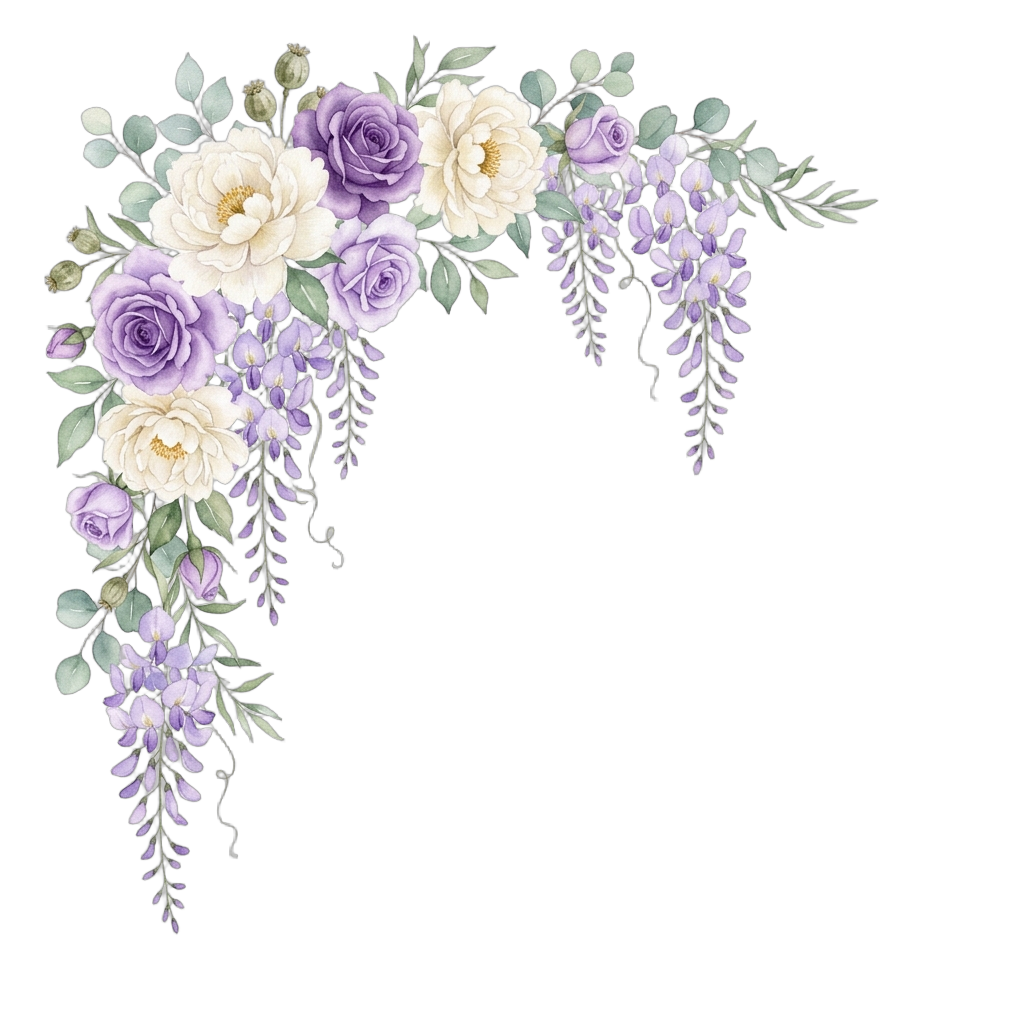
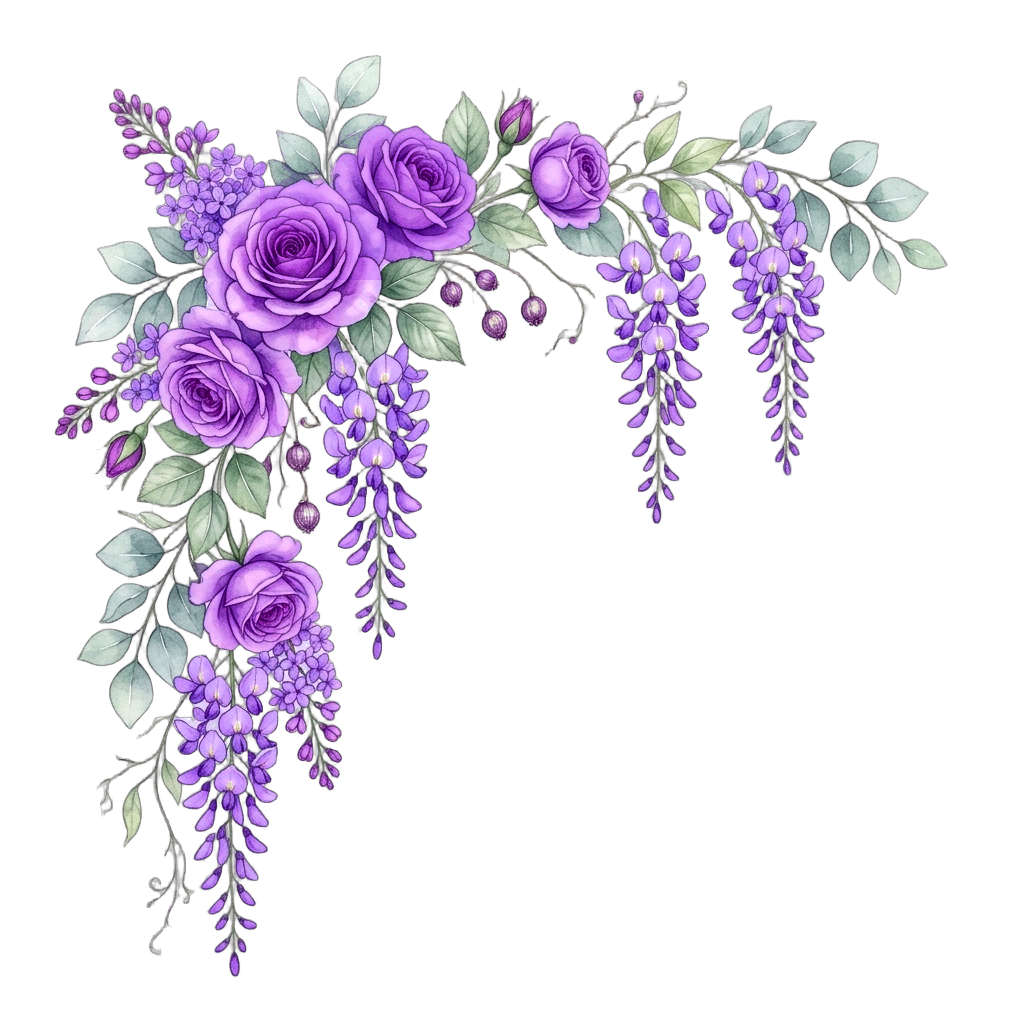
add new flower at the background

Changed region(s): [[0.0312, 0.0312, 0.9375, 0.9688], [0.125, 0.9062, 0.1562, 0.9375]]

diff --git a/src/views/CoverPage.css b/src/views/CoverPage.css
@@ -81,34 +81,72 @@
   z-index: 4;
 }
 
+.top-floral-bridge-bg {
+position: absolute;
+    top: -20px;
+    left: 50%;
+    transform: translateX(-50%);
+    width: 93%;
+    height: auto;
+    display: block;
+    z-index: 1;
+    pointer-events: none;
+    filter: drop-shadow(0 4px 12px rgba(90, 40, 110, 0.1));
+}
+
+.top-flower-left-bg {
+  position: absolute;
+  top: clamp(-16px, -4.5vw, -10px);
+  left: clamp(-28px, -5vw, -20px);
+  width: clamp(120px, 32vw, 165px); /* Increased from ~99px - 136px */
+  height: auto;
+  display: block;
+  z-index: 0;
+  pointer-events: none;
+  filter: drop-shadow(0 4px 10px rgba(90, 40, 110, 0.08));
+}
+
+.top-flower-right-bg {
+  position: absolute;
+  top: clamp(-16px, -4.5vw, -10px);
+  right: clamp(-28px, -5vw, -20px);
+  width: clamp(120px, 32vw, 165px);
+  height: auto;
+  display: block;
+  z-index: 0;
+  transform: scaleX(-1);
+  pointer-events: none;
+  filter: drop-shadow(0 4px 10px rgba(90, 40, 110, 0.08));
+}
+
 .top-flower-left {
   position: absolute;
-  top: -4px;
-  left: -4px;
+  top: -16px;
+  left: -20px;
   width: clamp(110px, 32vw, 150px);
   height: auto;
   display: block;
-  filter: drop-shadow(0 4px 10px rgba(90, 40, 110, 0.08));
+  z-index: 2;
 }
 
 .top-flower-right {
-  position: absolute;
-  top: -4px;
-  right: -4px;
-  width: clamp(110px, 32vw, 150px);
-  height: auto;
-  display: block;
-  filter: drop-shadow(0 4px 10px rgba(90, 40, 110, 0.08));
+    position: absolute;
+    top: -16px;
+    right: -20px;
+    width: clamp(110px, 32vw, 150px);
+    height: auto;
+    display: block;
+    z-index: 2;
 }
-
 .top-flower-center {
   position: absolute;
-  top: -14px;
+  top: clamp(10px, 3.8vw, 18px);
   left: 50%;
+  width: clamp(100px, 30vw, 135px);
   transform: translateX(-50%);
-  width: clamp(170px, 48vw, 240px);
   height: auto;
   display: block;
+  z-index: 3;
   filter: drop-shadow(0 4px 8px rgba(90, 40, 110, 0.06));
 }
 

diff --git a/src/views/CoverPage.vue b/src/views/CoverPage.vue
@@ -23,16 +23,37 @@
     <!-- ── Top floral header arrangement ─────────────────── -->
     <div class="top-floral-header" aria-hidden="true">
       <img
+        src="@/assets/horizontal_floral_bridge_trans.png"
+        class="top-floral-bridge-bg"
+        alt="Top Floral Bridge"
+        draggable="false"
+      />
+      <img
         src="@/assets/purple_top_left_trans.png"
         class="top-flower-left"
         alt="Top Left Floral Corner"
         draggable="false"
         @load="onImgLoad"
       />
+      
+            
       <img
-        src="@/assets/purple_top_center_trans.png"
+        src="@/assets/purple_flower_bouquet_2.png"
+        class="top-flower-left-bg"
+        alt="Top Left Background Bouquet"
+        draggable="false"
+      />
+
+      <img
+        src="@/assets/purple_flower_bouquet_2.png"
         class="top-flower-center"
         alt="Top Center Floral Garland"
+        draggable="false"
+      />
+      <img
+        src="@/assets/purple_flower_bouquet_2.png"
+        class="top-flower-right-bg"
+        alt="Top Right Background Bouquet"
         draggable="false"
       />
       <img

diff --git a/AGENTS.md b/AGENTS.md
@@ -1,0 +1,6 @@
+# Operational Rules & Constraints
+
+## STRICT RESTRICTION: NO GIT ACCESS
+- Under NO circumstances is the AI assistant permitted to run any `git` commands (e.g., `git status`, `git diff`, `git log`, `git checkout`, `git add`, `git commit`, etc.).
+- Do not inspect, read, or modify anything inside the `.git` directory.
+- The user has explicitly forbidden any access to or operations on Git.
